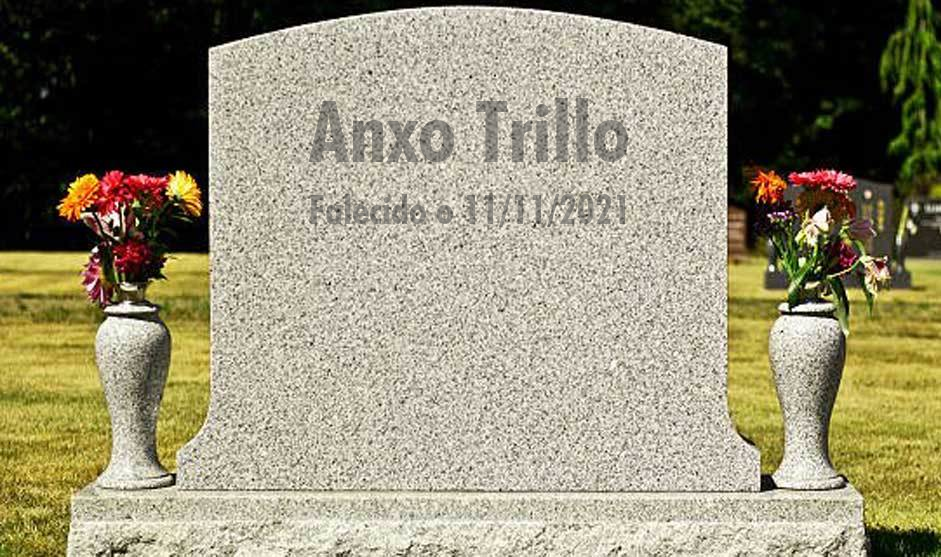
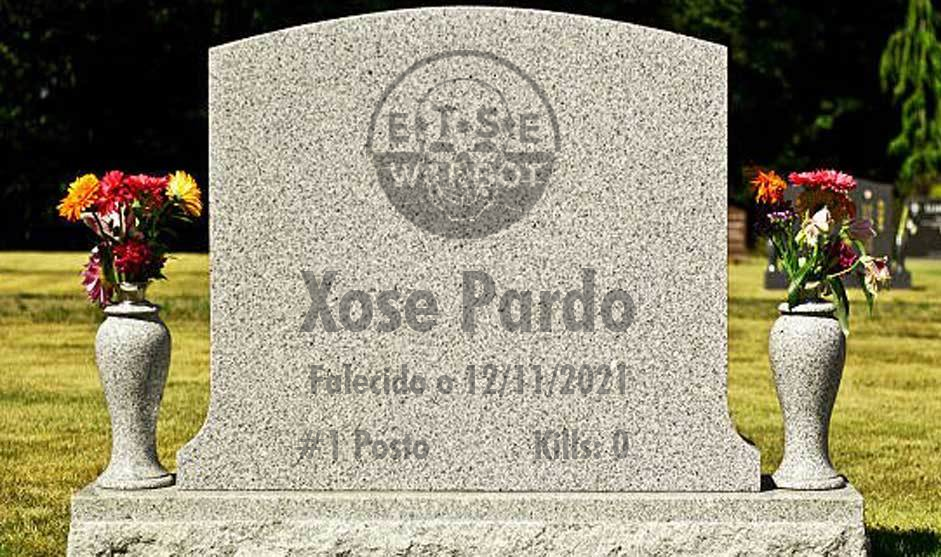
Add files via upload

diff --git a/fotos.py b/fotos.py
@@ -1,0 +1,36 @@
+from PIL import Image, ImageFont, ImageDraw
+
+# Crea a imaxe da tumba co nome da víctima
+def crear_tumba(nome, big_size, subtexto, kills, posto, small_size):
+    tumba = Image.open("tumba.png").convert("RGBA")
+    logo = Image.open("warbot_logo3.png")
+    texto_img = Image.new('RGBA', tumba.size, (255, 255, 255, 0))
+
+    edicion = ImageDraw.Draw(texto_img)
+
+    fonte = ImageFont.truetype('Futura Bold font.ttf', big_size)
+    add_text(fonte, nome, (tumba.size[0] // 2 - ancho(nome, edicion, fonte) // 2, 250), edicion)
+
+    fonte = ImageFont.truetype('Futura Bold font.ttf', small_size)
+    add_text(fonte, kills, (tumba.size[0] / 2 - ancho(kills, edicion, fonte) + 160, 420), edicion)
+    add_text(fonte, subtexto, (tumba.size[0] / 2 - ancho(subtexto, edicion, fonte) / 2, 355), edicion)
+    add_text(fonte, posto, (tumba.size[0] / 2 - 175, 420), edicion)
+
+    edicion_final = Image.alpha_composite(tumba, texto_img)
+    edicion_final = Image.alpha_composite(edicion_final, logo)
+
+    edicion_final.save("resultado.png")
+    edicion_final.show()
+
+
+def add_text(font, text, pos, img):
+    fonte = font
+    ancho_texto = img.textsize(text, font=fonte)[0]
+    ancho_texto = img.textsize(text, font=fonte)[0]
+    img.text(pos, text, fill=(50, 50, 50, 110), font=fonte)
+
+
+def ancho(text, img, font):
+    fonte = font
+    w = img.textsize(text, font=fonte)[0]
+    return w

diff --git a/storage.py b/storage.py
@@ -1,0 +1,48 @@
+class Player:
+    def __init__(self, nome, pronome, grupo, alianza, kills, forza):
+        self.nome = nome
+        self.pronome = pronome
+        self.grupo = grupo
+        self.alianza = alianza
+        self.kills = kills
+        self.forza = forza
+
+class Mod:
+    def __init__(self, masc, fem):
+        self.masc = masc
+        self.fem = fem
+
+
+def txt_to_players():
+    f = open('nomes.txt', 'r')
+    file = f.readlines()
+    players = []
+    i = 0
+    while i < len(file):
+        player_str = file[i].split('/')
+        players.append(Player(player_str[0], player_str[1],
+                              player_str[2], player_str[3],
+                              player_str[4], player_str[5]))
+        i += 1
+    return players
+
+def txt_to_mods():
+    f = open('mods.txt', 'r')
+    file = f.readlines()
+    mods = []
+    i = 0
+    while i < len(file):
+        mod_str = file[i].split('/')
+        mods.append(Mod(mod_str[0], mod_str[1]))
+        i += 1
+    return mods
+
+def txt_to_verbos():
+    f = open('verbos.txt', 'r')
+    file = f.readlines()
+    verbos = []
+    i = 0
+    while i < len(file):
+        verbos.append(file[i].split('/')[0])
+        i += 1
+    return verbos
